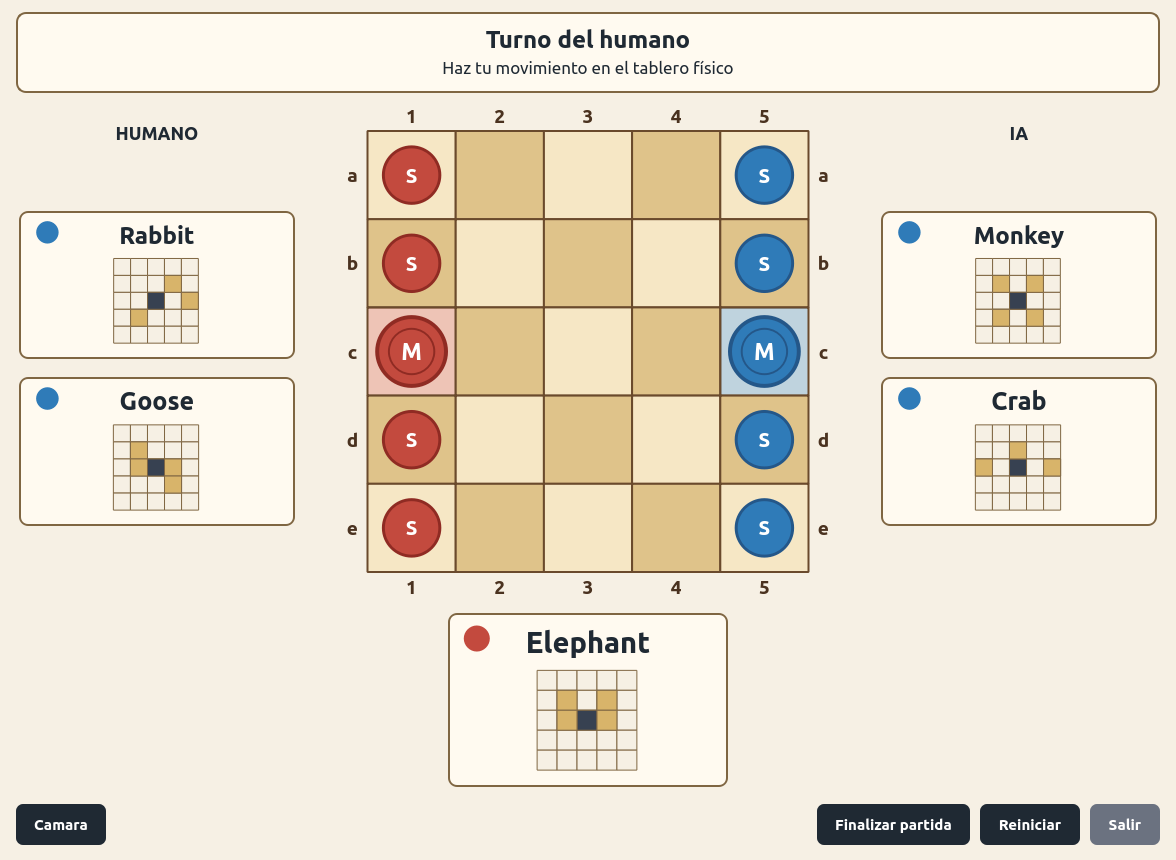
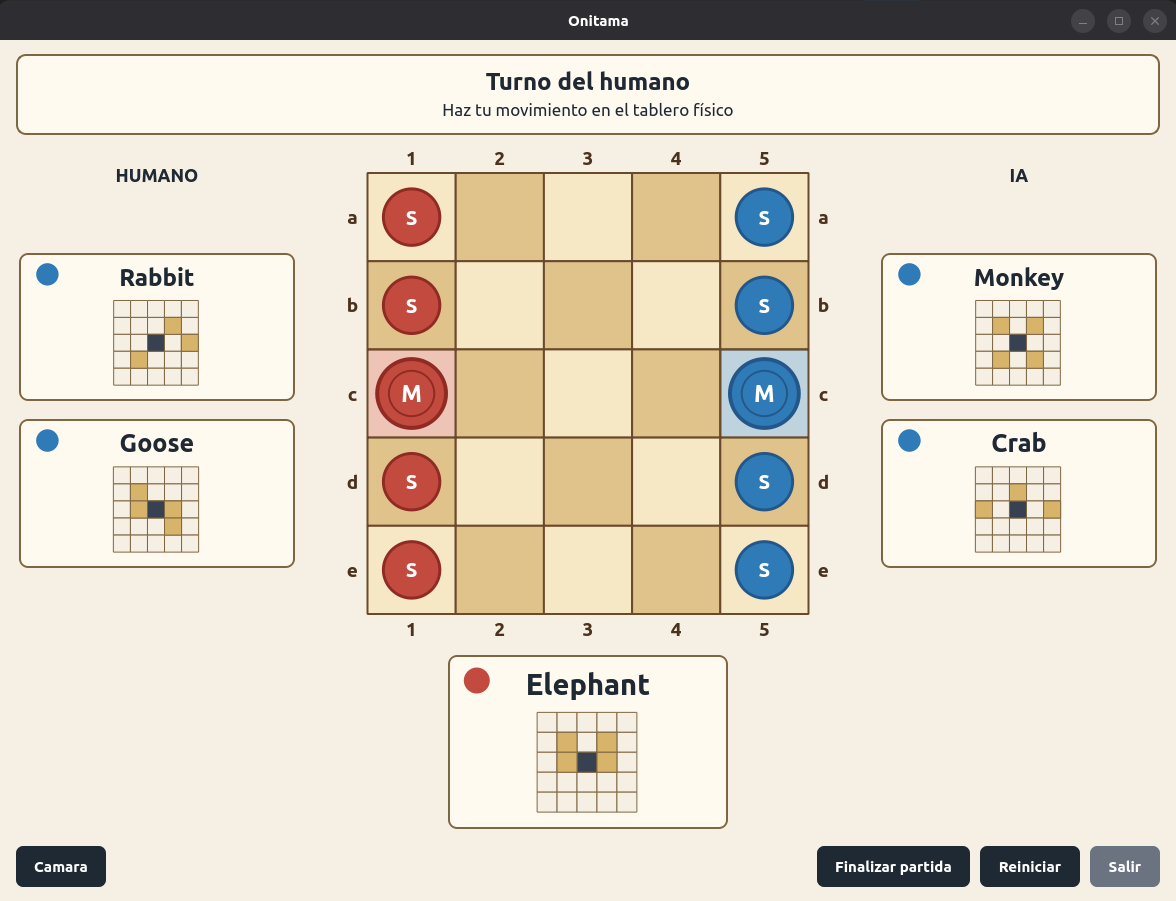
Revise chapter 5 and fix camera typo

diff --git a/docs/memoria/capitulos/05_Implementacion_sistema.tex b/docs/memoria/capitulos/05_Implementacion_sistema.tex
@@ -76,13 +76,13 @@ Un \texttt{GameState} almacena la información necesaria para reconstruir una po
     \item \texttt{red\_master\_pos} y \texttt{blue\_master\_pos}: posiciones cacheadas de los maestros.
 \end{itemize}
 
-Las posiciones de los maestros se almacenan explícitamente para evitar recorrer el tablero cada vez que se necesita conocer su ubicación. Esta decisión simplifica y acelera operaciones frecuentes, como la comprobación de victoria, la evaluación heurística de posiciones o la generación de información para la inteligencia artificial.
+Las posiciones de los maestros se almacenan explícitamente para evitar recorrer el tablero cada vez que se necesita conocer su ubicación. Esta decisión simplifica y acelera operaciones frecuentes, como la comprobación de victoria o la evaluación heurística de posiciones durante la búsqueda de la inteligencia artificial.
 
 Los elementos básicos del juego se modelan mediante tipos sencillos y separados:
 
 \begin{itemize}
     \item \texttt{Player}, \texttt{PieceType} y \texttt{Piece}, definidos en \texttt{pieces.py}.
-    \item \texttt{Card}, \texttt{ALL\_CARDS} y \texttt{CARD\_BY\_NAME}, definidos en \texttt{cards.py}.
+    \item \texttt{Card}, definida en \texttt{cards.py}, junto con el conjunto de cartas oficiales.
     \item \texttt{Move} y \texttt{Pass}, definidos en \texttt{moves.py}.
 \end{itemize}
 
@@ -114,13 +114,12 @@ Esta organización hace que el motor funcione como una fuente única de verdad p
 \section{Agente de inteligencia artificial}
 \label{sec:agente-ia}
 
-El agente de inteligencia artificial se implementa en el paquete \texttt{onitama.ai}. El código se divide en varios módulos con responsabilidades diferenciadas:
+El agente de inteligencia artificial se implementa en el paquete \texttt{onitama.ai}. La implementación se reparte en varios módulos principales:
 
 \begin{itemize}
     \item \texttt{agent.py}: selección de acciones mediante \texttt{choose\_action()}.
     \item \texttt{search.py}: búsqueda adversarial y optimizaciones.
     \item \texttt{evaluate.py}: funciones heurísticas de evaluación.
-    \item \texttt{types.py}: tipos compartidos para evaluadores y tabla de transposición.
     \item \texttt{controllers.py}: adaptación del agente mediante \texttt{AIController}.
 \end{itemize}
 
@@ -279,10 +278,10 @@ Este modelo clasifica cada recorte como una de las 16 cartas oficiales del juego
 La salida principal del módulo de visión es \texttt{VisionSnapshot}, definido en \texttt{snapshot.py}. Esta estructura combina:
 
 \begin{itemize}
-    \item un \texttt{VisionBoard} con la disposición detectada de las piezas;
-    \item las dos cartas visibles del jugador rojo;
-    \item las dos cartas visibles del jugador azul;
-    \item la carta lateral.
+    \item \texttt{board}: objeto \texttt{VisionBoard} con la disposición detectada de las piezas.
+    \item \texttt{red\_cards}: nombres de las dos cartas visibles del jugador rojo.
+    \item \texttt{blue\_cards}: nombres de las dos cartas visibles del jugador azul.
+    \item \texttt{side\_card}: nombre de la carta lateral.
 \end{itemize}
 
 El snapshot representa una observación visual completa, pero todavía no contiene toda la información necesaria para ser un estado lógico de partida. En concreto, la cámara puede detectar piezas y cartas, pero no determina por sí misma a qué jugador le corresponde mover. Por ese motivo, la conversión mediante \texttt{to\_game\_state(to\_move)} recibe el turno como parámetro externo.
@@ -374,10 +373,10 @@ El control de ejecución se implementa en el paquete \texttt{onitama.runtime}. E
 La configuración del runtime se representa mediante \texttt{VisionRuntimeConfig}. Esta estructura agrupa los parámetros necesarios para iniciar una partida asistida por visión:
 
 \begin{itemize}
-    \item jugador humano seleccionado;
-    \item número de repeticiones necesarias para estabilizar una observación;
-    \item profundidad y evaluador del agente de IA;
-    \item dispositivo de cámara, resolución y tasa de frames.
+    \item Jugador humano seleccionado.
+    \item Número de repeticiones necesarias para estabilizar una observación.
+    \item Profundidad y evaluador del agente de IA.
+    \item Dispositivo de cámara, resolución y tasa de frames.
 \end{itemize}
 
 A partir de esta configuración, el runtime construye internamente los componentes necesarios: cámara, \texttt{VisionPipeline}, \texttt{VisionGameSession} y \texttt{AIController}.
@@ -440,20 +439,18 @@ Esta organización permite que \texttt{MainWindow} actúe como coordinador de la
 \subsection{Configuración y calibración}
 \label{subsec:configuracion-calibracion-gui}
 
-La pantalla inicial se define en \texttt{SetupPage}. Desde ella se selecciona el color del jugador humano y el perfil de inteligencia artificial disponible. Internamente, la configuración se obtiene a partir de \texttt{Player} y de los evaluadores registrados en el módulo de IA.
+La pantalla inicial se define en \texttt{SetupPage} y reúne las decisiones previas a la partida: el color del jugador humano, el nivel de dificultad del agente de inteligencia artificial y el estado de la calibración visual.
 
-Además, esta pantalla permite acceder a las dos calibraciones necesarias para una partida asistida por visión:
+El color seleccionado determina qué jugador será controlado por el usuario, mientras que la dificultad se utiliza para construir la configuración del agente que se enviará al runtime. Por su parte, la calibración visual depende de dos ficheros requeridos por el módulo de visión:
 
 \begin{itemize}
-    \item calibración del tablero;
-    \item calibración de las regiones de cartas.
+    \item \texttt{data/vision/calibration.json}: calibración geométrica del tablero.
+    \item \texttt{data/vision/card\_rois.json}: regiones de interés de las cartas.
 \end{itemize}
 
-Antes de habilitar el inicio de partida, la interfaz comprueba que existan y sean válidos los ficheros de calibración requeridos: \texttt{data/vision/calibration.json} y \texttt{data/vision/card\_rois.json}.
+Antes de habilitar el inicio de partida, la interfaz comprueba que ambos ficheros existan y sean válidos. Si falta alguno de ellos, el usuario puede generarlo desde la propia aplicación mediante diálogos integrados en Qt.
 
-La calibración no se realiza mediante los scripts externos del proyecto, sino mediante diálogos integrados en Qt. \texttt{BoardCalibrationDialog} permite marcar las cuatro esquinas del tablero y guardar la calibración geométrica. Por su parte, \texttt{CardRoisCalibrationDialog} permite definir las cinco regiones correspondientes a las cartas visibles: \texttt{red\_0}, \texttt{red\_1}, \texttt{side}, \texttt{blue\_0} y \texttt{blue\_1}.
-
-Ambos diálogos utilizan captura de cámara propia, permiten congelar la imagen y editar puntos de forma interactiva antes de guardar la configuración. De este modo, la calibración queda integrada en el flujo normal de uso de la aplicación.
+\texttt{BoardCalibrationDialog} permite marcar las cuatro esquinas del tablero y guardar la transformación geométrica. \texttt{CardRoisCalibrationDialog} permite definir las regiones \texttt{red\_0}, \texttt{red\_1}, \texttt{side}, \texttt{blue\_0} y \texttt{blue\_1}. Ambos diálogos utilizan captura de cámara propia, permiten congelar la imagen y editar los puntos de forma interactiva antes de guardar la configuración.
 
 \vspace{0.3cm}
 \begin{figure}[H]
@@ -509,6 +506,6 @@ Estas interfaces permiten probar el motor, la inteligencia artificial y la integ
 
 La carpeta \texttt{scripts} reúne herramientas de apoyo al desarrollo. Entre ellas se incluyen scripts de calibración, previsualización, captura de datos, depuración del pipeline visual, construcción de snapshots, torneos entre agentes y medición del rendimiento de la búsqueda. Estas utilidades no forman parte del flujo principal de uso, pero han sido importantes para ajustar y validar los distintos módulos durante el desarrollo.
 
-Por último, la carpeta \texttt{tests} contiene pruebas automatizadas ejecutadas con \texttt{pytest}. Estas pruebas cubren aspectos como las reglas del motor, la orientación de cartas, la aplicación de acciones, las condiciones de victoria, la conversión entre visión y motor, la estabilización de observaciones, la sincronización y partes del runtime.
+Por último, la carpeta \texttt{tests} contiene pruebas automatizadas ejecutadas con \texttt{pytest}. Estas pruebas cubren aspectos como las reglas del motor, la aplicación de acciones, las condiciones de victoria, la conversión entre visión y motor, la estabilización de observaciones, la sincronización y partes del runtime.
 
 En conjunto, estas interfaces y herramientas han servido como soporte para construir el sistema de forma incremental, facilitar la detección de errores y preparar la evaluación experimental que se aborda en el capítulo siguiente.

diff --git a/src/onitama/gui/main_window.py b/src/onitama/gui/main_window.py
@@ -53,7 +53,7 @@ class MainWindow(QMainWindow):
 
         self._finish_button = QPushButton("Finalizar partida")
         self._reset_button = QPushButton("Reiniciar")
-        self._camera_button = QPushButton("Camara")
+        self._camera_button = QPushButton("Cámara")
         self._game_quit_button = QPushButton("Salir")
         
         self._game_quit_button.setStyleSheet(